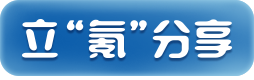
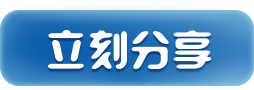
页面调整

diff --git a/public/css/loading.wj.css b/public/css/loading.wj.css
@@ -20,11 +20,11 @@ body,html{position: fixed;overflow:hidden;
 	width:100%;height:100%;margin:0px;padding:0px;background-color:#79acd1;}
 .abs { position: absolute; }
 .ptimg { width: 100%; }
-.bg{ width: 100%; height: 100%; left: 0%; top: 0%;background:url('../1-homepage/bg.jpg') no-repeat 0 0;background-size:100% 100%;transform: translateZ(-1000px);transform-style: preserve-3d;}
-.page1 .bg{ width: 100%; height: 100%; left: 0%; top: 0%;background:url('../1-homepage/bg.jpg') no-repeat 0 0;background-size:100% 100%;transform: translateZ(-1000px);transform-style: preserve-3d;}
-.page2 .bg{ width: 100%; height: 100%; left: 0%; top: 0%;background:url('../page2/page2_bg.jpg') no-repeat 0 0;background-size:100% 100%;transform: translateZ(-1000px);transform-style: preserve-3d;}
+.bg{ width: 100%; height: 100%; left: 0%; top: 0%;background:url('../images/1-homepage/bg.jpg') no-repeat 0 0;background-size:100% 100%;transform: translateZ(-1000px);transform-style: preserve-3d;}
+.page1 .bg{ width: 100%; height: 100%; left: 0%; top: 0%;background:url('../images/1-homepage/bg.jpg') no-repeat 0 0;background-size:100% 100%;transform: translateZ(-1000px);transform-style: preserve-3d;}
+/*.page2 .bg{ width: 100%; height: 100%; left: 0%; top: 0%;background:url('../page2/page2_bg.jpg') no-repeat 0 0;background-size:100% 100%;transform: translateZ(-1000px);transform-style: preserve-3d;}
 .page3 .bg{ width: 100%; height: 100%; left: 0%; top: 0%;background:url('../page3/page3_bg.jpg') no-repeat 0 0;background-size:100% 100%;transform: translateZ(-1000px);transform-style: preserve-3d;}
-
+*/
 /*************固定****************/
 .xhan{z-index:999; width: 6.67%; height: 3.32%; left: 46.67%; top: 93.12%;}
 .xhan img{max-width: 50px;}
@@ -72,6 +72,106 @@ body,html{position: fixed;overflow:hidden;
 .loading .bar100 .bar_bg img{max-width: 365px;}
 .loading .bar100 .bar{ width: 97.26%; height: 17.31%; left: 1.37%; top: 7.69%;}
 .loading .bar100 .bar img{max-width: 355px;}
+
+
+
+ 
+
+
+
+
+
+.p2home{width: 100%; height: 100%; left: 0%; top: 0%;}
+.p2home .bg{ width: 100%; height: 100%; left: 0%; top: 0%;}
+.p2home .bg img{max-width: 750px;}
+.p2home .robot{width: 100%; height: 57.71%; left: 0%; top: 32.17%;display:none;}
+.p2home .robot .light2{ width: 100%; height: 98.56%; left: 0%; top: 1.44%;display:none;}
+.p2home .robot .light2 img{max-width: 750px;}
+.p2home .robot .light1{ width: 99.87%; height: 96.84%; left: 0.13%; top: 0%;display:none;}
+.p2home .robot .light1 img{max-width: 749px;}
+.p2home .robot .icons{width: 84.67%; height: 69.83%; left: 5.33%; top: 9.2%;display:none;}
+.p2home .robot .icons .layer_33{ width: 16.54%; height: 29.84%; left: 83.46%; top: 27.78%;}
+.p2home .robot .icons .layer_33 img{max-width: 105px;}
+.p2home .robot .icons .layer_32{ width: 5.35%; height: 3.29%; left: 66.14%; top: 96.71%;}
+.p2home .robot .icons .layer_32 img{max-width: 34px;}
+.p2home .robot .icons .layer_31{ width: 17.8%; height: 13.79%; left: 2.36%; top: 13.79%;}
+.p2home .robot .icons .layer_31 img{max-width: 113px;}
+.p2home .robot .icons .layer_30{ width: 4.72%; height: 6.17%; left: 23.15%; top: 81.07%;}
+.p2home .robot .icons .layer_30 img{max-width: 30px;}
+.p2home .robot .icons .layer_29{ width: 2.83%; height: 3.29%; left: 79.69%; top: 50.41%;}
+.p2home .robot .icons .layer_29 img{max-width: 18px;}
+.p2home .robot .icons .layer_28{ width: 4.25%; height: 4.12%; left: 7.4%; top: 61.93%;}
+.p2home .robot .icons .layer_28 img{max-width: 27px;}
+.p2home .robot .icons .layer_27{ width: 3.15%; height: 3.5%; left: 29.76%; top: 51.85%;}
+.p2home .robot .icons .layer_27 img{max-width: 20px;}
+.p2home .robot .icons .layer_26{ width: 6.93%; height: 9.05%; left: 18.58%; top: 25.31%;}
+.p2home .robot .icons .layer_26 img{max-width: 44px;}
+.p2home .robot .icons .layer_25{ width: 9.45%; height: 11.32%; left: 25.51%; top: 61.93%;}
+.p2home .robot .icons .layer_25 img{max-width: 60px;}
+.p2home .robot .icons .layer_24{ width: 25.51%; height: 18.31%; left: 0%; top: 78.19%;}
+.p2home .robot .icons .layer_24 img{max-width: 162px;}
+.p2home .robot .icons .layer_23{ width: 20.47%; height: 30.66%; left: 18.74%; top: 7%;}
+.p2home .robot .icons .layer_23 img{max-width: 130px;}
+.p2home .robot .icons .layer_16{ width: 7.4%; height: 9.47%; left: 92.6%; top: 66.05%;}
+.p2home .robot .icons .layer_16 img{max-width: 47px;}
+.p2home .robot .icons .layer_15{ width: 13.23%; height: 14.81%; left: 15.28%; top: 38.89%;}
+.p2home .robot .icons .layer_15 img{max-width: 84px;}
+.p2home .robot .icons .tsfh{ width: 41.1%; height: 39.3%; left: 58.9%; top: 0%;cursor:pointer;}
+.p2home .robot .icons .tsfh img{max-width: 261px;}
+.p2home .robot .jqr{ width: 52.13%; height: 71.98%; left: 24.93%; top: 16.95%;display:none;pointer-events:none;}
+.p2home .robot .jqr img{max-width: 391px;}
+.p2home .title{width: 87.07%; height: 27.28%; left: 6.4%; top: 7.38%;display:none;}
+.p2home .title .titdeco{width: 100%; height: 100%; left:0%; top: 0%;} 
+.p2home .title .title{     width: 96.04%;
+    height: 85.37%;
+    left: 3.64%;
+    top: 9.49%;display:none;}
+.p2home .title .title img{max-width: 607px;}
+.p2home .title .layer_34{ width: 9.65%; height: 20.36%; left: 0%; top: 69%;}
+.p2home .title .layer_34 img{max-width: 63px;}
+.p2home .title .layer_35{ width: 9.18%; height: 21.68%; left: 88.77%; top: 78.32%;}
+/*.p2home .title .layer_35{ width: 8.88%; height: 24.32%; left: 91.12%; top: 75.68%;}*/
+.p2home .title .layer_35 img{max-width: 58px;}
+.p2home .title .layer_36{ width: 10.11%; height: 16.72%; left: 86.68%; top: 15.2%;}
+.p2home .title .layer_36 img{max-width: 66px;}
+.p2home .title .layer_37{ width: 5.22%; height: 9.21%; left: 8.86%; top: 23.04%;}
+/*.p2home .title .layer_37{ width: 5.05%; height: 10.33%; left: 11.64%; top: 25.84%;}*/
+.p2home .title .layer_37 img{max-width: 33px;}
+.p2home .title .layer_38{ width: 6.28%; height: 13.07%; left: 36.91%; top: 0%;}
+.p2home .title .layer_38 img{max-width: 41px;}
+.p2home .title .layer_39{ width: 3.48%; height: 6.23%; left: 14.56%; top: 18.16%;}
+/*.p2home .title .layer_39{ width: 3.37%; height: 6.99%; left: 17.76%; top: 22.8%;}*/
+.p2home .title .layer_39 img{max-width: 22px;}
+.p2home .box{width: 60.67%; height: 58.29%; left: 22.4%; top: 19.71%;pointer-events:none;}
+.p2home .box .hz{ width: 100%; height: 100%; left: 0%; top: 0%;}
+.p2home .box .hz img{max-width: 455px;}
+.p2home .btn-clue-pp{width: 25.6%; height: 11.61%; left: 74.4%; top: 0%;display:none;}
+.p2home .btn-clue-pp .btn-clue{ width: 100%; height: 100%; left: 0%; top: 0%;cursor:pointer;}
+.p2home .btn-clue-pp .btn-clue img{max-width: 192px;}
+.p2home .btn-btm{width: 85.33%; height: 6.63%; left: 7.73%; top: 85.99%;display:none;}
+.p2home .btn-btm .btn2{ width: 44.06%; height: 100%; left: 55.94%; top: 0%;cursor:pointer;}
+.p2home .btn-btm .btn2 img{max-width: 282px;}
+.p2home .btn-btm .btn1{ width: 51.25%; height: 100%; left: 0%; top: 0%;cursor:pointer;}
+.p2home .btn-btm .btn1 img{max-width: 328px;}
+.p2home .btn-music-pp{width: 20.53%; height: 12.6%; left: 0%; top: 0%;}
+.p2home .btn-music-pp .yloff{ width: 100%; height: 100%; left: 0%; top: 0%;}
+.p2home .btn-music-pp .yloff img{max-width: 154px;}
+.p2home .btn-music-pp .ylon{ width: 100%; height: 100%; left: 0%; top: 0%;}
+.p2home .btn-music-pp .ylon img{max-width: 154px;}
+
+
+
+
+
+
+
+
+
+
+
+
+
+
 
 
 
@@ -130,24 +230,11 @@ body,html{position: fixed;overflow:hidden;
 .page1 .robot .bt2 .slzndx4 img{max-width: 73px;}
 .page1 .robot .bt2 .slzndx5{ width: 14.19%; height: 14.17%; left: 55.98%; top: 14.37%;}
 .page1 .robot .bt2 .slzndx5 img{max-width: 89px;}
-.hz{width: 83.6%; height: 92.95%; left: 10.53%; top: 7.05%;}
+/*.hz{width: 83.6%; height: 92.95%; left: 10.53%; top: 7.05%;}*/
 .page1 .hz .hz3{ width: 72.57%; height: 62.71%; left: 14.19%; top: 37.29%;}
 .page1 .hz .hz3 img{max-width: 455px;}
 .bt1{width: 100%; height: 35.5%; left: 0%; top: 0%;}
-
-.page1 .hz .bt1 .title1{ width: 92.98%; height: 35.2%; left: 0%; top: 34.4%;}
-.page1 .hz .bt1 .title1 img{max-width: 583px;}
-.page1 .hz .bt1 .slzndx1{ width: 11%; height: 12.8%; left: 22.97%; top: 13.07%;transform: translateZ(-100px);transform-style: preserve-3d;}
-.page1 .hz .bt1 .slzndx1 img{max-width: 69px;}
-.page1 .hz .bt1 .slzndx2{ width: 99.52%; height: 98.67%; left: 0.48%; top: 1.33%;transform: translateZ(-100px);transform-style: preserve-3d;}
-.page1 .hz .bt1 .slzndx2 img{max-width: 624px;}
-.page1 .hz .bt1 .slzndx3{ width: 14.19%; height: 22.93%; left: 75.44%; top: 60.27%;transform: translateZ(-100px);transform-style: preserve-3d;}
-.page1 .hz .bt1 .slzndx3 img{max-width: 89px;}
-.page1 .hz .bt1 .slzndx4{ width: 11.64%; height: 20.53%; left: 5.74%; top: 64.53%;transform: translateZ(-100px);transform-style: preserve-3d;}
-.page1 .hz .bt1 .slzndx4 img{max-width: 73px;}
-.page1 .hz .bt1 .slzndx5{ width: 14.19%; height: 19.47%; left: 55.98%; top: 0%;transform: translateZ(-100px);transform-style: preserve-3d;}
-.page1 .hz .bt1 .slzndx5 img{max-width: 89px;}
-
+ 
 
 
 .page2{width: 100%; height: 100%; left: 0%; top: 0%;}

diff --git a/public/css/abilix.css b/public/css/abilix.css
@@ -4,7 +4,7 @@
 	src: local('../fonts/impactreg'), url('../fonts/impactreg.woff') format('woff'), url('../fonts/impactreg.ttf') format('truetype');
 }
 .abilix {
-    background: url("../images/bkg.jpg") center 0 no-repeat;
+    background: #83b3d6 url("../images/bkg.jpg") center 0 no-repeat;
 }
 header {
     margin: 18px 0;
@@ -121,7 +121,7 @@ header {
 .btn-share.active.focus{
     margin-right: 40px;
     width: 254px;
-    height: 80px;
+    height: 90px;
     background: url("../images/btn-share.png") 0 0 no-repeat;
     -webkit-background-size: 100% 100%;           /* Safari 3.0 */
     -moz-background-size: 100% 100%;           /* Gecko 1.9.2 (Firefox 3.6) */

diff --git a/public/css/abilix.phase2.css b/public/css/abilix.phase2.css
@@ -13,6 +13,7 @@
 	margin-top: 60px;
 	background: url('../images/phase2/bkg-01.png') center 60px no-repeat;
 	position: relative;
+	min-height: 1200px;
 }
 .page2 {
 	margin-top: 60px;
@@ -66,10 +67,10 @@
 .btns-01 .btn-share {
 	position: absolute;
 	right:65px;
-	top:7px;
+	top:0px;
 }
 .page2 .topper {
-	margin-top: 10px;
+	margin-top: 40px;
 	margin-bottom: 20px;
 	height: 200px;
 }

diff --git a/resources/views/phase2/index.blade.php b/resources/views/phase2/index.blade.php
@@ -44,7 +44,7 @@
         <div class="modal-dialog">
             <div class="modal-content">
                 <div class="modal-body text-center">
-                    <img src="/images/share.png" width="500" />
+                    <img src="/images/share.png" width="506" />
                     <div class="share-close"><img src="/images/icon-close.png" class="img-responsive" /></div>
                 </div>
             </div><!-- /.modal-content -->

diff --git a/resources/views/phase2/list.blade.php b/resources/views/phase2/list.blade.php
@@ -49,7 +49,7 @@
         <div class="modal-dialog">
             <div class="modal-content">
                 <div class="modal-body text-center">
-                    <img src="/images/share.png" width="500" />
+                    <img src="/images/share.png" width="506" />
                     <div class="share-close"><img src="/images/icon-close.png" class="img-responsive" /></div>
                 </div>
             </div><!-- /.modal-content -->
